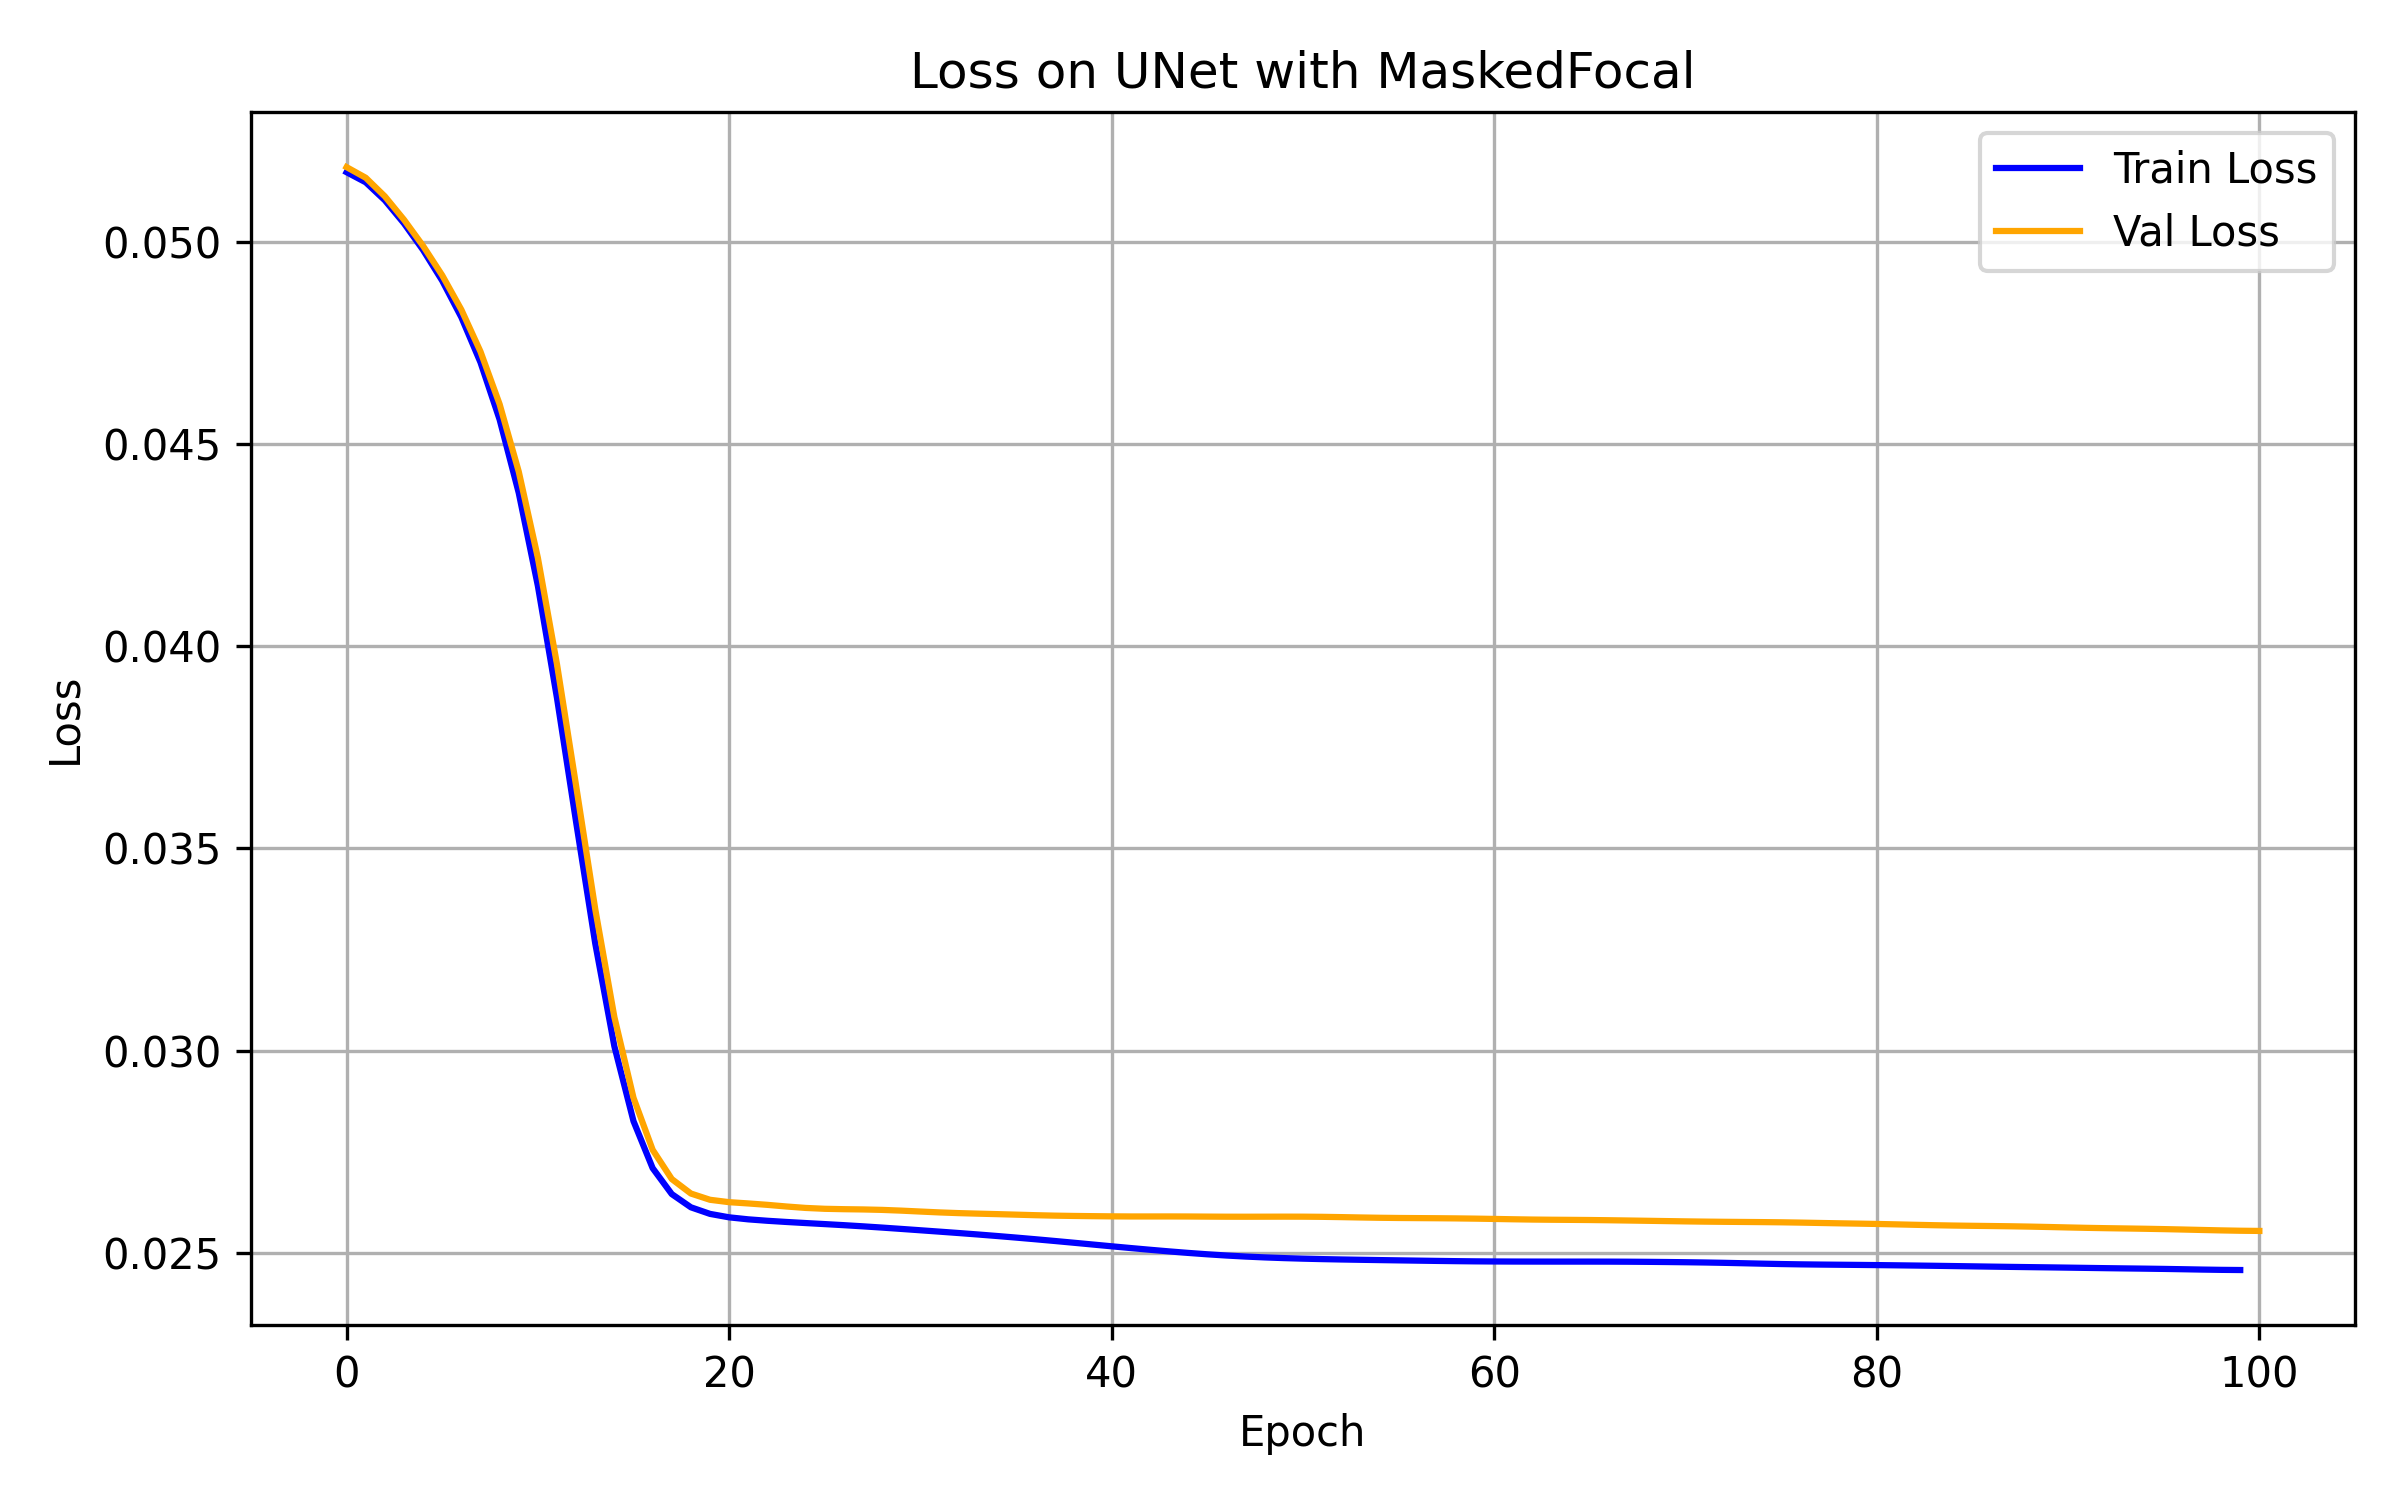
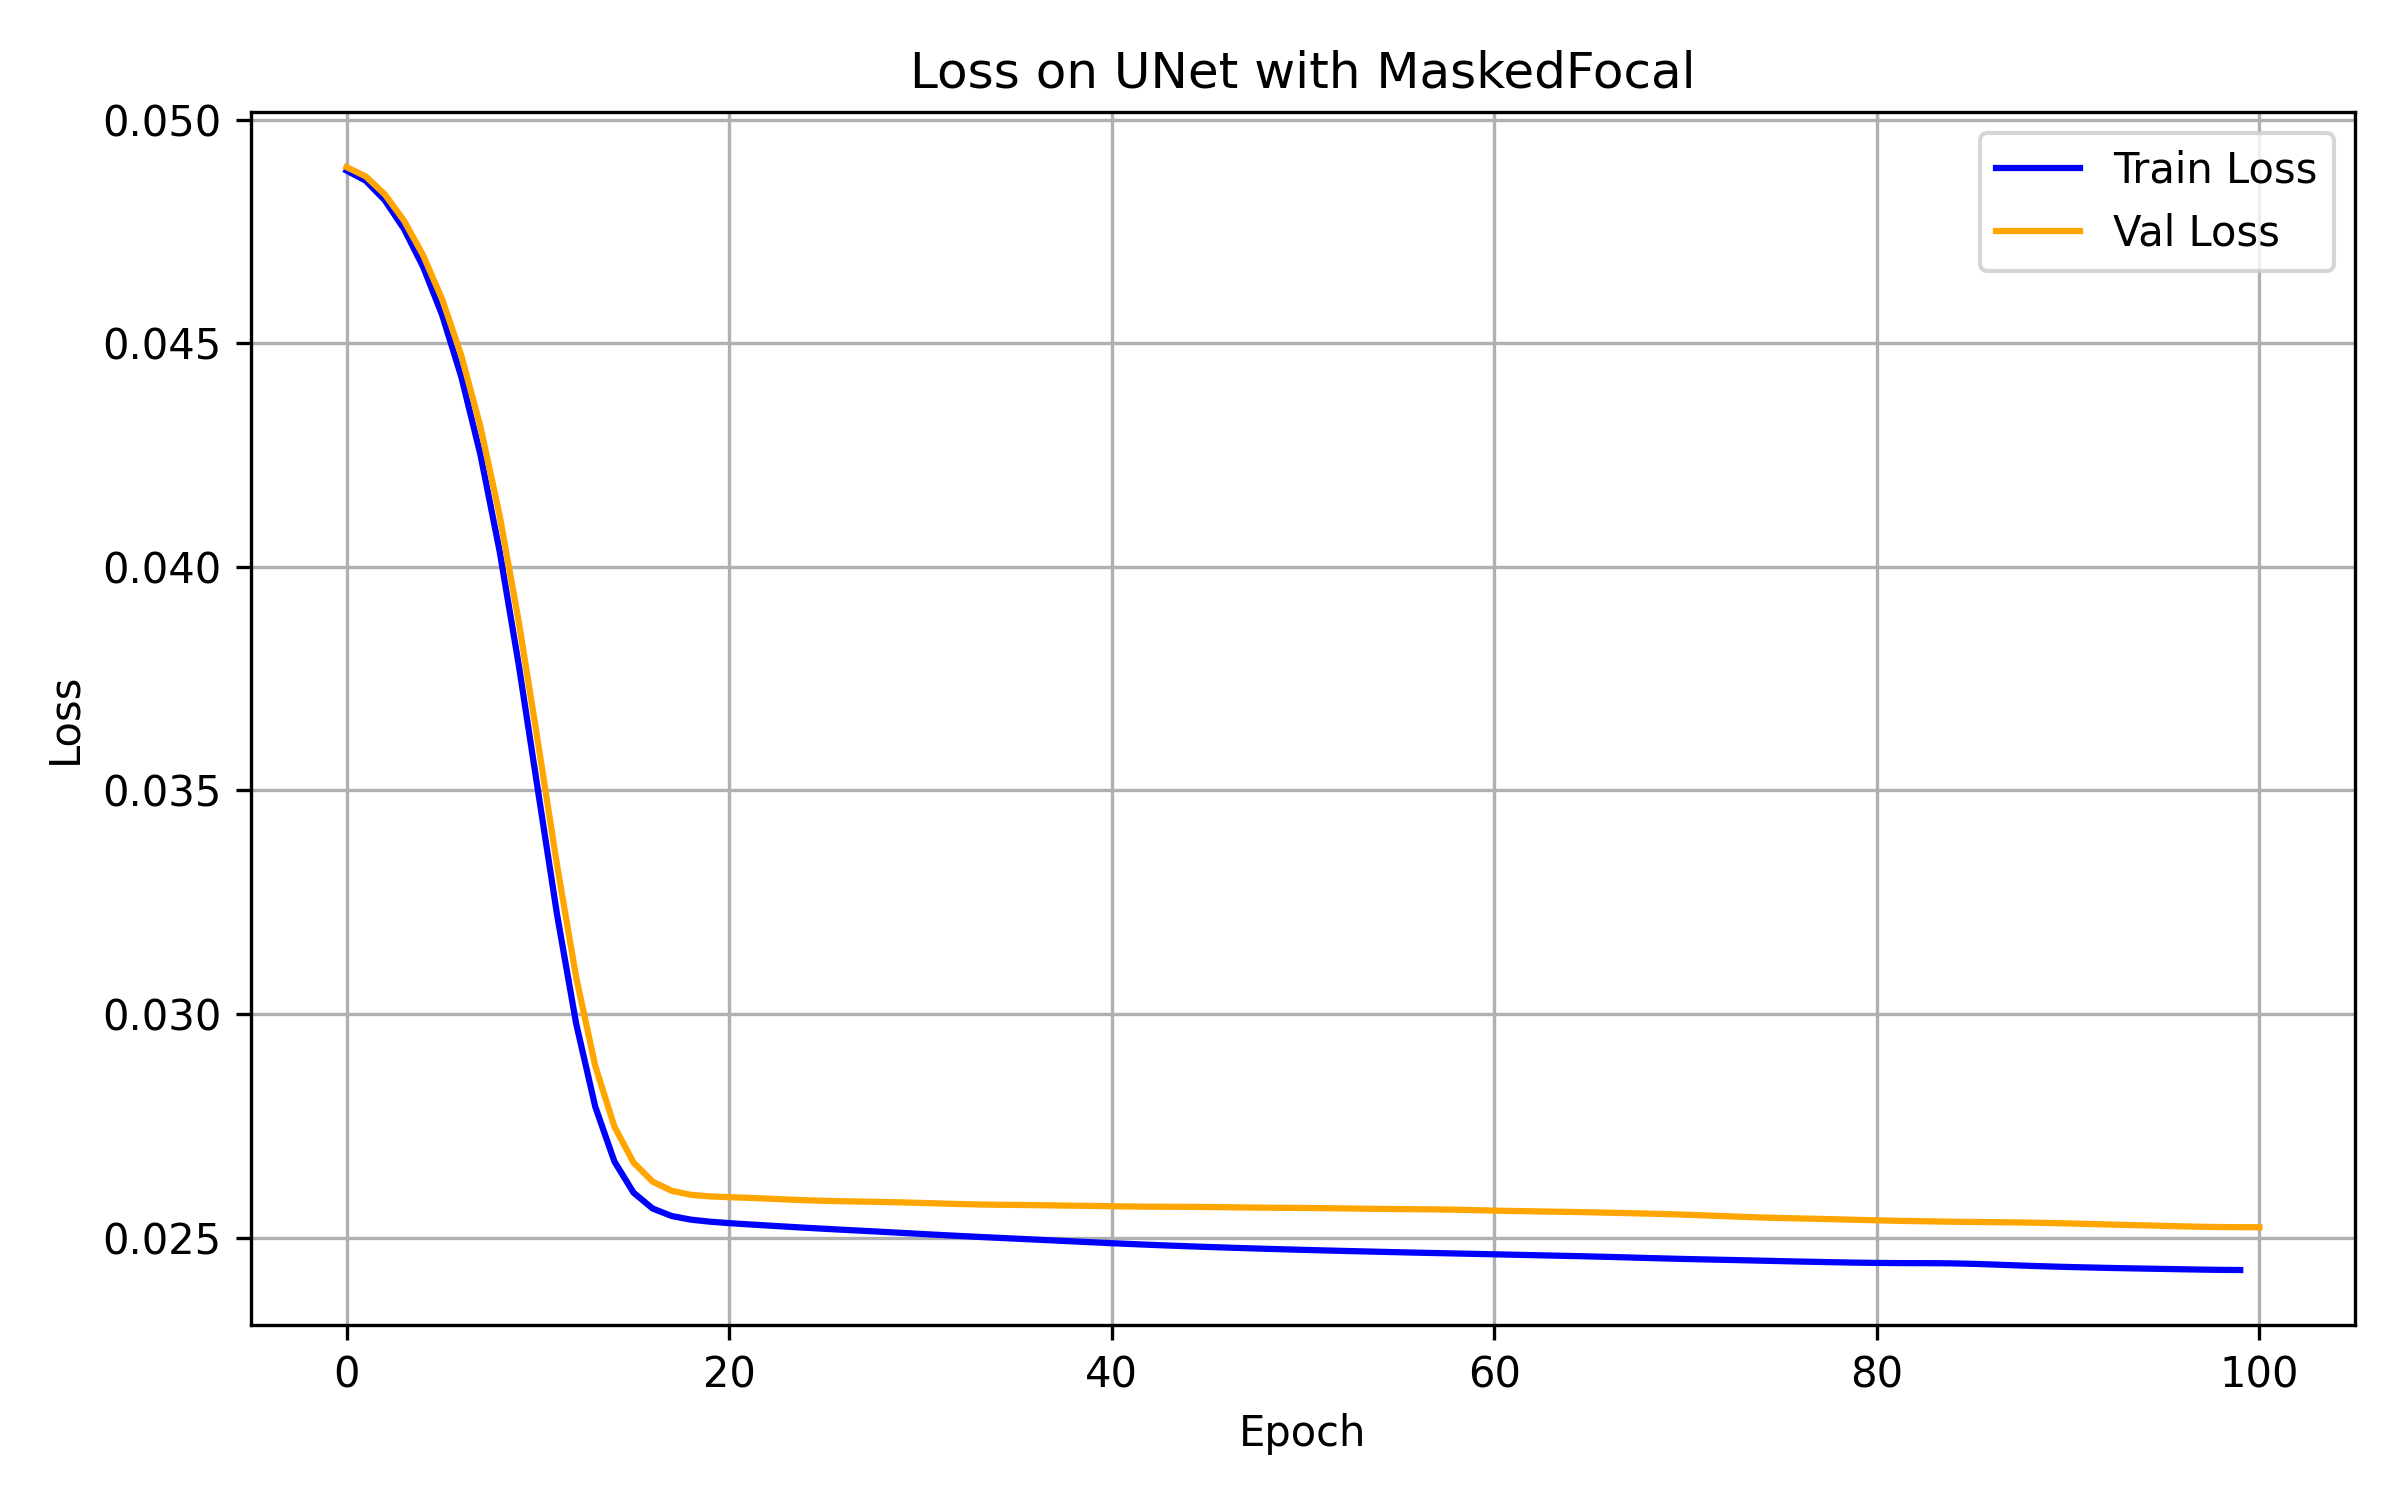
add test mask

diff --git a/lib/dataset/DRIVEDataset.py b/lib/dataset/DRIVEDataset.py
@@ -14,6 +14,8 @@ import random
 import torchvision.transforms.functional as TF
 from sklearn.model_selection import train_test_split
 from lib.tools.checkdataset import *
+import albumentations as A
+from albumentations.pytorch import ToTensorV2
 
 DATA_PATH = '/dtu/datasets1/02516/DRIVE'
 
@@ -41,7 +43,7 @@ class DRIVEDataset(torch.utils.data.Dataset):
         'Generates one sample of data'
         img_path = self.images[idx]
         img = cv2.cvtColor(cv2.imread(str(img_path)), cv2.COLOR_BGR2RGB).astype(np.float32)/255.0
-        img = torch.from_numpy(img).permute(2,0,1)  # C,H,W
+        # img = torch.from_numpy(img).permute(2,0,1)  # C,H,W
         
         if self.train == 'train': 
             # training set
@@ -50,16 +52,23 @@ class DRIVEDataset(torch.utils.data.Dataset):
 
             gt = cv2.imread(str(gt_path), cv2.IMREAD_GRAYSCALE)
             gt = (gt>127).astype(np.float32)
-            gt = torch.from_numpy(gt).unsqueeze(0)
+            # gt = torch.from_numpy(gt).unsqueeze(0)
+            # gt = np.expand_dims(gt, axis=-1)
             
             mask_path = img_path.parent.parent / 'mask' / img_path.name.replace('.tif', '_mask.gif')
             
             mask = cv2.imread(str(mask_path), cv2.IMREAD_GRAYSCALE)
             mask = (mask>127).astype(np.float32)
-            mask = torch.from_numpy(mask).unsqueeze(0)
             
             if self.transform:
-                img, gt, mask = self.transform(img=img, gt=gt, mask=mask)
+                augmented = self.transform(image=img, gt=gt, mask=mask)
+                img, gt, mask = augmented['image'], augmented['gt'], augmented['mask']
+                
+            # gt = gt.squeeze(-1)
+            # mask = mask.squeeze(-1)
+            mask = mask.unsqueeze(0)
+            gt = gt.unsqueeze(0)
+            
             
             return img, gt, mask
         else:
@@ -67,74 +76,47 @@ class DRIVEDataset(torch.utils.data.Dataset):
             mask_path = img_path.parent.parent / 'mask' / img_path.name.replace('.tif', '_mask.gif')
             mask = cv2.imread(str(mask_path), cv2.IMREAD_GRAYSCALE)
             mask = (mask>127).astype(np.float32)
-            mask = torch.from_numpy(mask).unsqueeze(0)
             
             if self.transform:
-                img, mask = self.transform(img=img, mask=mask)
+                augmented = self.transform(image=img, mask=mask)
+                img, mask = augmented['image'], augmented['mask']
+                
+            mask = mask.unsqueeze(0)
             
             return img, mask
 
 
-class JointTransform:
-    def __init__(self, resize=(512, 512), augment=True):
-        """
-        resize: tuple (H, W) to resize all images and masks to same size
-        augment: whether to apply random flips
-        """
-        self.resize = resize
-        self.augment = augment
+def get_train_transform(target_size=(512,512)):
+    return A.Compose([
+        A.Resize(*target_size),
+        A.HorizontalFlip(p=0.5),
+        A.VerticalFlip(p=0.5),
+        A.RandomRotate90(p=0.5),
+        A.ShiftScaleRotate(shift_limit=0.05, scale_limit=0.1, rotate_limit=30, p=0.7),
+        A.RandomBrightnessContrast(p=0.2),
+        ToTensorV2()
+    ],
+    additional_targets={
+        'gt': 'mask',
+        'mask': 'mask'
+    })
 
-    def __call__(self, img, mask, gt=None):
-        # resize — 注意 interpolation
-        img = TF.resize(img, self.resize, interpolation=TF.InterpolationMode.BILINEAR)
-        mask = TF.resize(mask, self.resize, interpolation=TF.InterpolationMode.NEAREST)
-        if gt is not None:
-            gt = TF.resize(gt, self.resize, interpolation=TF.InterpolationMode.NEAREST)
-
-        # augment
-        if self.augment:
-            if random.random() > 0.5:
-                img = TF.hflip(img)
-                mask = TF.hflip(mask)
-                if gt is not None: gt = TF.hflip(gt)
-            if random.random() > 0.5:
-                img = TF.vflip(img)
-                if gt is not None: gt = TF.vflip(gt)
-                mask = TF.vflip(mask)
-
-        # To tensor
-        if not isinstance(img, torch.Tensor):
-            img = TF.to_tensor(img)
-        if not isinstance(mask, torch.Tensor):
-            mask = TF.to_tensor(mask)
-        if gt is not None and not isinstance(gt, torch.Tensor):
-            gt = TF.to_tensor(gt)
-            
-        return (img, gt, mask) if gt is not None else (img, mask)
+def get_test_transform(target_size=(512,512)):
+    return A.Compose([
+        A.Resize(*target_size),
+        ToTensorV2()
+    ],
+    additional_targets={
+        'gt': 'mask',
+        'mask': 'mask'
+    })
     
+# if __name__ == '__main__':
+    # batch_size = 1
     
-class JustForToTensor:
-    def __init__(self):
-        self.ok = "ok"
-
-    def __call__(self, img, mask, gt=None):
-        # To tensor
-        if not isinstance(img, torch.Tensor):
-            img = TF.to_tensor(img)
-        if not isinstance(mask, torch.Tensor):
-            mask = TF.to_tensor(mask)
-        if gt is not None and not isinstance(gt, torch.Tensor):
-            gt = TF.to_tensor(gt)
-            
-        return (img, gt, mask) if gt is not None else (img, mask)
+    # trainset = DRIVEDataset(train='train', transform=transform)
     
-if __name__ == '__main__':
-    batch_size = 1
+    # train_loader = DataLoader(trainset, batch_size=batch_size, shuffle=True,
+    #                         num_workers=1)
     
-    transform = JustForToTensor()
-    trainset = DRIVEDataset(train='train', transform=transform)
-    
-    train_loader = DataLoader(trainset, batch_size=batch_size, shuffle=True,
-                            num_workers=1)
-    
-    analyze_dataset(train_loader)
+    # analyze_dataset(train_loader)

diff --git a/mytrain.py b/mytrain.py
@@ -13,7 +13,7 @@ from torch.utils.data import Dataset, DataLoader
 import torchvision.transforms as T
 
 from lib.dataset.Ph2Dataset import Ph2
-from lib.dataset.DRIVEDataset import DRIVEDataset, JointTransform
+from lib.dataset.DRIVEDataset import *
 from lib.model.UNetModel import UNet, UNet2, LightningUNet2
 from lib.model.EncDecModel import LightningEncDec
 from pytorch_lightning import Trainer
@@ -82,11 +82,10 @@ def train_eval_ph2():
     
 def train_eval_DRIVE():
     size = 384
-    transform = JointTransform(resize=(size, size))
+    train_val_dataset = DRIVEDataset(train='train', transform=get_train_transform(target_size=(size,size)))
     # ---------------------------
     # Dataloaders
     # ---------------------------
-    train_val_dataset = DRIVEDataset(train='train', transform=transform)
     # Split train-val: simple 16/4 split = 4/1
     indices = list(range(len(train_val_dataset)))
     random_state = 42
@@ -96,9 +95,10 @@ def train_eval_DRIVE():
 
     train_dataset = Subset(train_val_dataset, train_idx)
     val_dataset = Subset(train_val_dataset, val_idx)
+    val_dataset.dataset.transform = get_test_transform(target_size=(size,size))
 
     train_loader = DataLoader(train_dataset, batch_size=4, shuffle=True, num_workers=2)
-    val_loader = DataLoader(val_dataset, batch_size=4, shuffle=False, num_workers=1)
+    val_loader = DataLoader(val_dataset, batch_size=4, shuffle=False, num_workers=2)
     
     # test_dataset = DRIVEDataset(train='test', transform=transform)
     # test_loader = DataLoader(val_dataset, batch_size=4, shuffle=False, num_workers=1)
@@ -112,24 +112,24 @@ def train_eval_DRIVE():
         }
     
     # loss - Weight BCE
-    device = 'cuda' if torch.cuda.is_available() else 'cpu'
-    pos_weight=compute_pos_weight(train_loader, device)
-    print(f'train pos_weight:{pos_weight}')
+    # device = 'cuda' if torch.cuda.is_available() else 'cpu'
+    # pos_weight=compute_pos_weight(train_loader, device)
+    # print(f'train pos_weight:{pos_weight}')
 
-    loss = BCELoss(pos_weight=pos_weight, with_mask=True)
-    loss_name = 'MaskedWeightedBCE'
+    # loss = BCELoss(pos_weight=pos_weight, with_mask=True)
+    # loss_name = 'MaskedWeightedBCE'
     
     # loss - Weight
     # loss = BCELoss(with_mask=True)
     # loss_name = 'MaskedBCE'
     
     # loss - FocalLoss
-    # loss = FocalLoss(with_mask=True)
-    # loss_name = 'MaskedFocal'
+    loss = FocalLoss(with_mask=True)
+    loss_name = 'MaskedFocal'
     
-    # model = LightningUNet2(loss_fn=loss, loss_name=loss_name, metrics=custom_metrics, n_channels=3, n_classes=1, base_c=32, with_mask=True)
+    model = LightningUNet2(loss_fn=loss, loss_name=loss_name, metrics=custom_metrics, n_channels=3, n_classes=1, base_c=32, with_mask=True)
     
-    model = LightningEncDec(loss_fn=loss, loss_name=loss_name, metrics=custom_metrics, in_channels=3, num_classes=1, with_mask=True)
+    # model = LightningEncDec(loss_fn=loss, loss_name=loss_name, metrics=custom_metrics, in_channels=3, num_classes=1, with_mask=True)
     
     exp_name = f"{model.model_name}-{model.loss_fc_name}-DRIVE"
     

diff --git a/lib/tools/checkimage.py b/lib/tools/checkimage.py
@@ -6,5 +6,5 @@ if __name__ == "__main__":
     DATA_PATH = '/dtu/datasets1/02516/PH2_Dataset_images/'
     image_path = os.path.join(DATA_PATH, f"{name}/{name}_Dermoscopic_Image/{name}.bmp")
     img = Image.open(image_path)
-    print(f'{name}:{img.size}')
+    print(f'{name}:{img.size}')l
     
